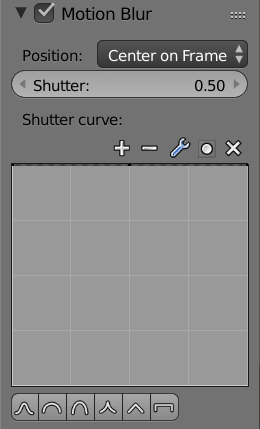
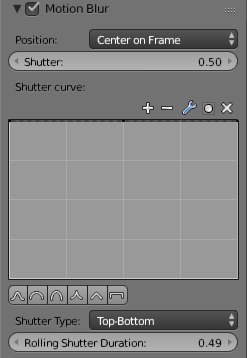
Update Motion blur settings.
git-svn-id: https://svn.blender.org/svnroot/bf-manual/trunk@1092 c4de1f47-6596-e411-a384-0024e86c2797

diff --git a/blender_docs/manual/render/cycles/settings/motion_blur.rst b/blender_docs/manual/render/cycles/settings/motion_blur.rst
@@ -41,6 +41,15 @@ Shutter Speed
 Shutter Curve
    Curve defining how the shutter opens and closes.
 
+Shutter Type
+   Replicates CMOS cameras by rendering a rolling shutter effect using scanlines.
+
+   - Top Bottom: Renders rolling shutter from the top of the image from the bottom.
+
+Rolling Shutter Duration
+   Controls balance between pure rolling shutter effect and pure motion blur effect.
+   With zero being no rolling shutter and one being all rolling shutter.
+
 .. warning::
 
    An object modifier setup that changes mesh topology over time will cause severe problems.
